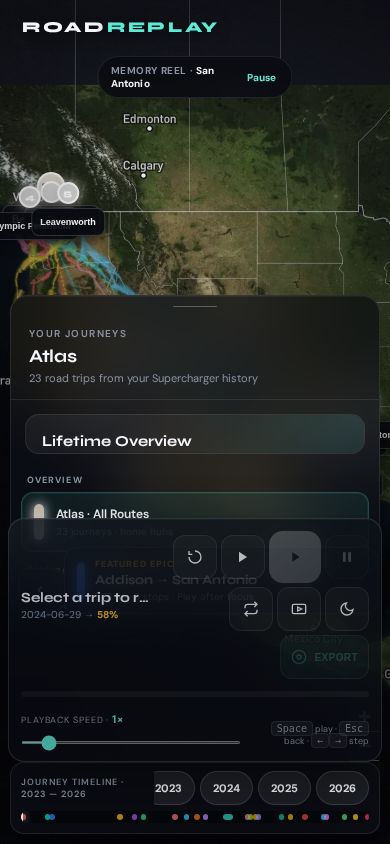
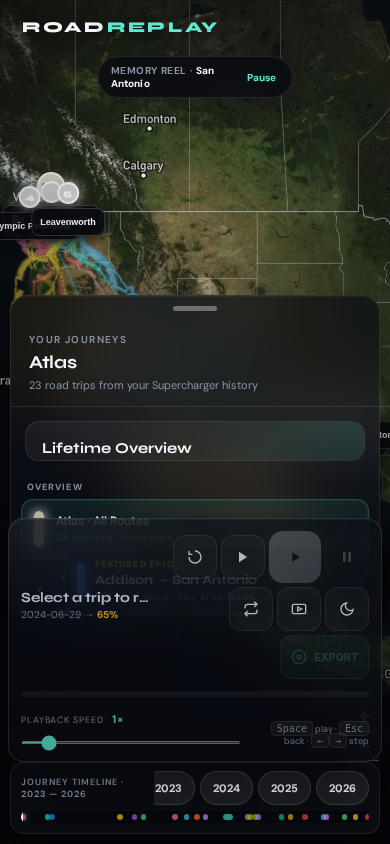
Add real mobile panel grab handle element
Replace the ::before pill with .panel-grab so the bottom-sheet affordance
is visible and assertable on 390×844 viewports.

diff --git a/scripts/verify_map.py b/scripts/verify_map.py
@@ -235,8 +235,8 @@ def main() -> int:
               const tr = toggle?.getBoundingClientRect();
               const styles = getComputedStyle(panel);
               return {
-                panelBottomSheet: styles.top === 'auto' || pr.top > window.innerHeight * 0.4,
-                panelGrab: getComputedStyle(panel, '::before').content !== 'none',
+                panelBottomSheet: pr.top > window.innerHeight * 0.35,
+                panelGrab: !!document.querySelector('.panel-grab') && getComputedStyle(document.querySelector('.panel-grab')).display !== 'none',
                 panelMaxH: pr.height,
                 dockWidth: dr.width,
                 dockInView: dr.bottom <= window.innerHeight + 2 && dr.top >= 0,
@@ -353,6 +353,9 @@ def main() -> int:
         ok = False
     if not mobile.get("dockInView"):
         print(f"FAIL: Mobile dock not fully in view: {mobile}")
+        ok = False
+    if not mobile.get("panelGrab"):
+        print(f"FAIL: Mobile panel grab handle missing: {mobile}")
         ok = False
     if mobile.get("eraChips", 0) < 2:
         print(f"FAIL: Mobile era chips missing: {mobile}")
